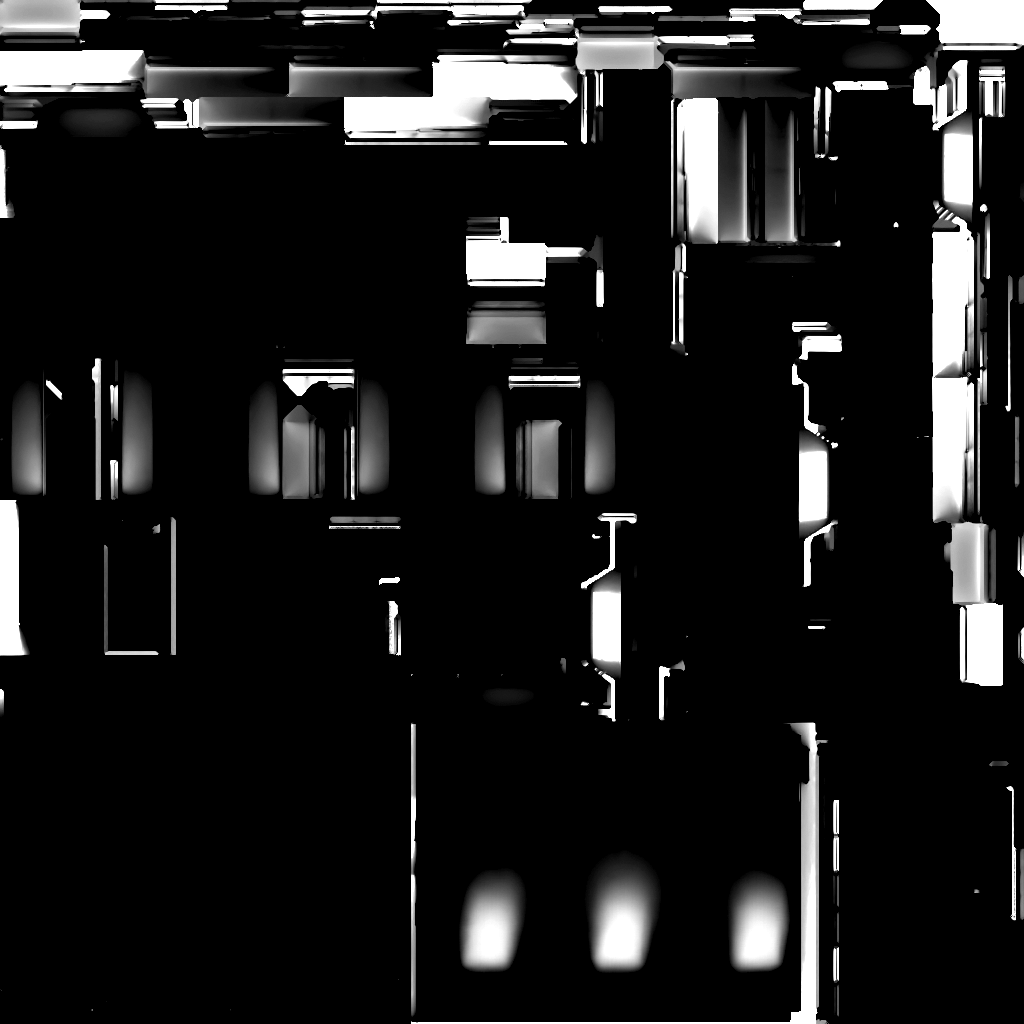
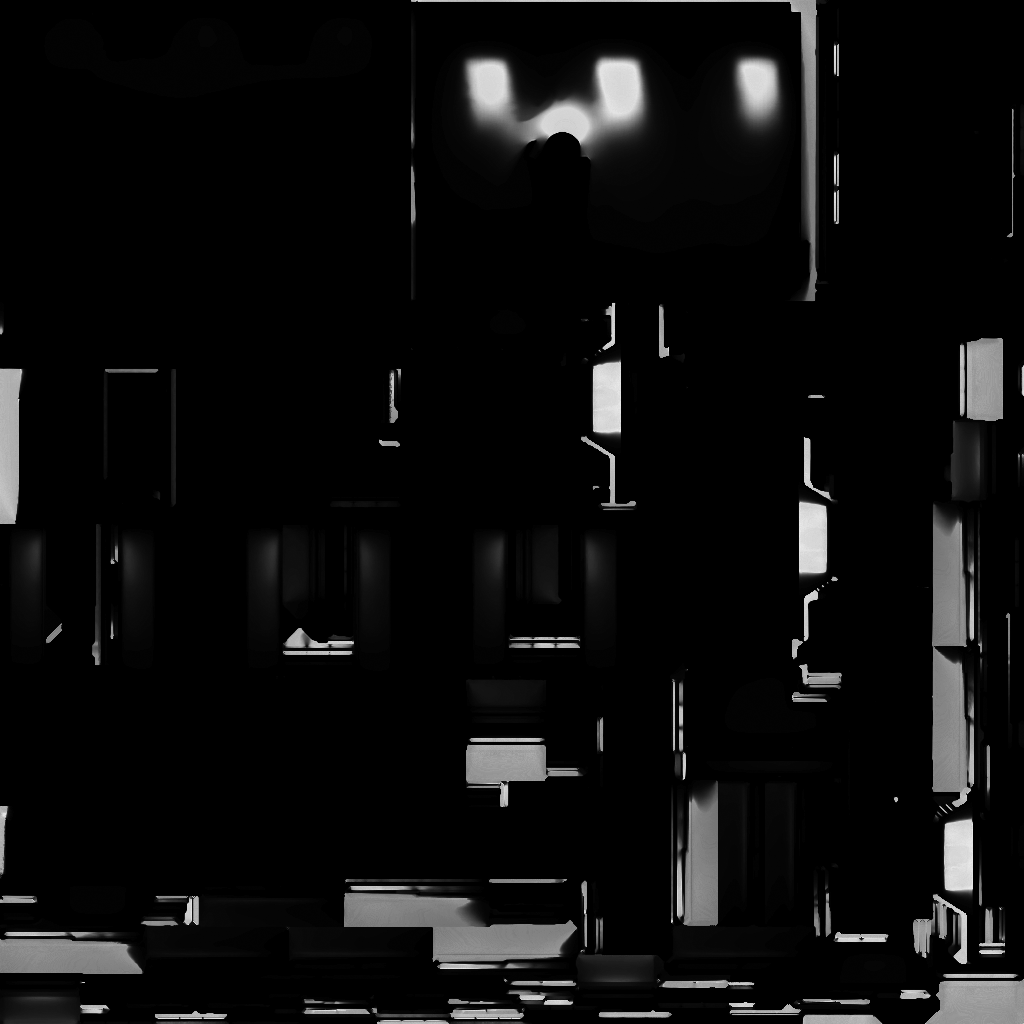
material changes

diff --git a/DCU/app.js b/DCU/app.js
@@ -95,9 +95,6 @@ window.addEventListener('DOMContentLoaded', function () {
         });
 
 
-
-        
-
         let excludedMeshesFromLightmap = ["LiquidObject","Light Blocker","CurveObject","final_room_primitive4","dragonLR"];
 
         // Load the Room meshes
@@ -143,8 +140,8 @@ window.addEventListener('DOMContentLoaded', function () {
 
                 if (mesh.name === 'dragonLR') {
 
-                console.log('dragonLR', mesh);
-                console.log('DragonGlass', dMat);
+                // console.log('dragonLR', mesh);
+                // console.log('DragonGlass', dMat);
                 var dMat = scene.getMaterialByName("DragonGlass");
                     dMat.metallic = 0.08;
                     dMat.roughness = 0.42;
@@ -179,17 +176,34 @@ window.addEventListener('DOMContentLoaded', function () {
                     mesh.isVisible = false;
                 }
 
-                if (mesh.name === 'CurvedObject') {
-                    var curveMat = scene.getMaterialByName("CurveObject");
+                if (mesh.name === 'CurveObject') {
+
+
+                    var curveMat = scene.getMaterialByName("Curve_Object");
                     curveMat.albedoColor = BABYLON.Color3.FromHexString("#3AA5BF").toLinearSpace();
                     curveMat.alpha = 0.0;
                     curveMat.metallic = 0.18;
                     curveMat.roughness = 0.42;
                     curveMat.indexOfRefraction = 1.37;
                     curveMat.metallicF0Factor= 1;
+                    curveMat.useAlphaFromAlbedoTexture = false;
+
                     curveMat.subSurface.tintColor = BABYLON.Color3.FromHexString("#B1EDED").toLinearSpace();
                     curveMat.subSurface.refractionIntensity = 1;
                     curveMat.subSurface.indexOfRefraction = 1.61;
+                    
+            
+                    curveMat.subSurface.isRefractionEnabled = true; // Enable refraction
+                    curveMat.subSurface.linkRefractionWithTransparency = true; // Link refraction with transparency
+                    curveMat.subSurface.tintColor = BABYLON.Color3.FromHexString("#B1EDED").toLinearSpace(); // Set the tint color
+                    curveMat.subSurface.volumeIndexOfRefraction = 1.8; // Set the volume index of refraction
+                    curveMat.subSurface.useIrradianceInFragment = true; // Enable iridescence
+                    curveMat.subSurface.irradianceIntensity = 1.0; // Control the intensity of the iridescence effect
+                    curveMat.subSurface.thickness = 0.5; // Control the thickness of the iridescence effect
+                    curveMat.subSurface.minimumThickness = 0.5; // Control the minimum thickness of the iridescence effect
+                    mesh.material = curveMat;
+                    console.log('CurvedObject', mesh);
+                    console.log('Curve_Object', curveMat);
         
                 }
            
@@ -225,6 +239,8 @@ window.addEventListener('DOMContentLoaded', function () {
                 pbrFloorMat.reflectivityTexture = floorMat.specularTexture;
                 pbrFloorMat.microSurface = floorMat.specularPower;
                 pbrFloorMat.useMicroSurfaceFromReflectivityMapAlpha = true;
+                pbrFloorMat.reflectivityTexture =new BABYLON.Texture("scenes/assets/roomspec.png", scene);
+                pbrFloorMat.microSurfaceTexture = new BABYLON.Texture("scenes/assets/roomspec.png", scene);
             
                 // Enable BRDF
                 pbrFloorMat.useEnergyConservation = true;
@@ -237,7 +253,7 @@ window.addEventListener('DOMContentLoaded', function () {
             
                 // Replace the standard material with the PBR material
                 floorMat = pbrFloorMat;
-                pbrFloorMat.microSurfaceTexture = new BABYLON.Texture("scenes/assets/roomspec.png", scene);
+               
             }
             
             // Fireplace material
@@ -303,7 +319,7 @@ window.addEventListener('DOMContentLoaded', function () {
             // chromaticAberration.centerPosition = new BABYLON.Vector2(0.5, 0.5);
             // chromaticAberration.direction = new BABYLON.Vector2(0.71, 0.71);
 
-            // // Add vignetting
+            // Add vignetting
             // var vignette = new BABYLON.VignettePostProcess('vignette', new BABYLON.Vector2(1,1), scene.activeCamera);
             // vignette.color = new BABYLON.Color4(0, 0, 0, 0);
             // vignette.cameraFov = 0.6;
@@ -342,7 +358,7 @@ window.addEventListener('DOMContentLoaded', function () {
     };
 
     var scene = createScene();
-    // scene.debugLayer.show();
+    scene.debugLayer.show();
 
     engine.runRenderLoop(function () {
         scene.render();
